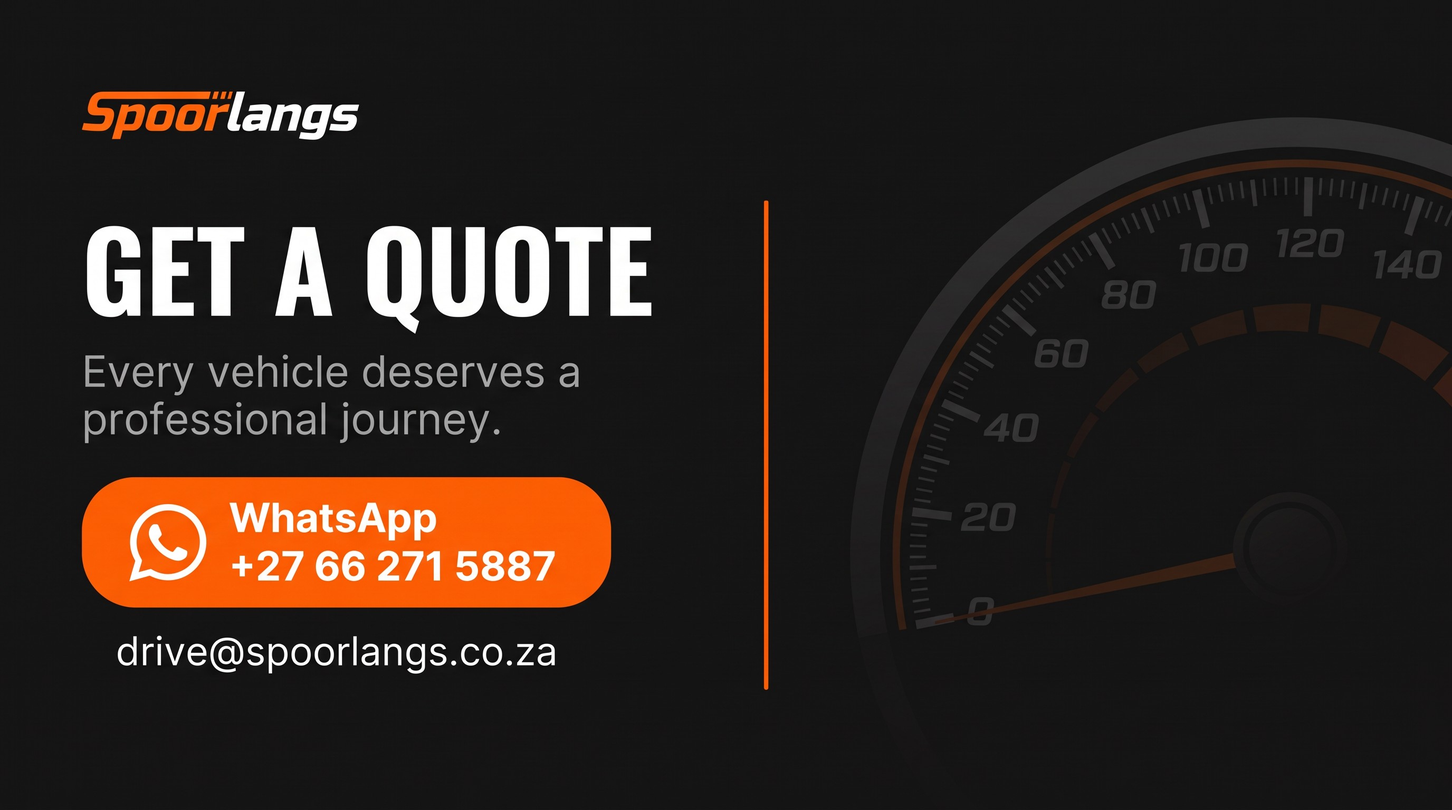
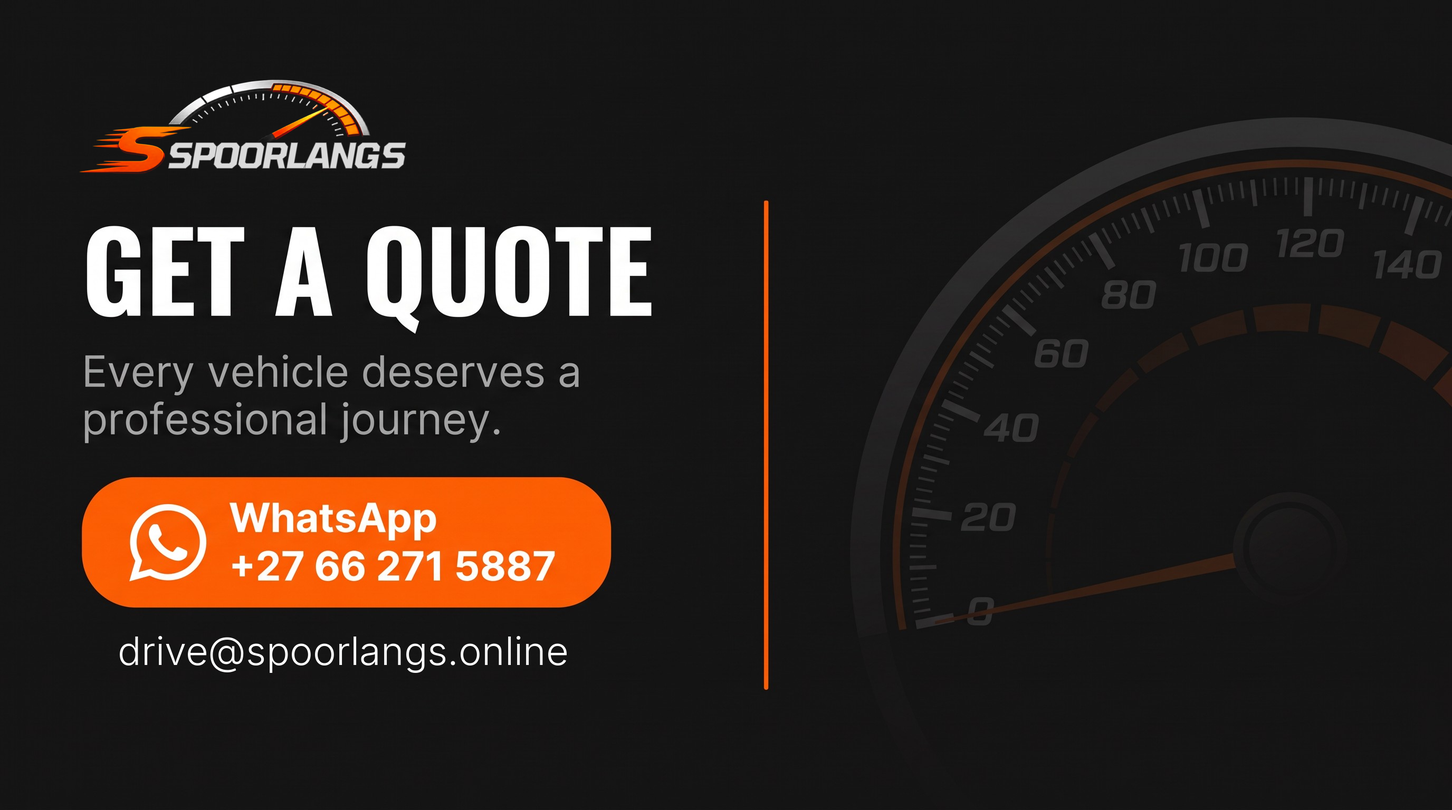
Re-export the Canva corrections and drop the old domain
Andries corrected the designs to spoorlangs.online in Canva. Re-exported
the 15 Templates and compared pixels: 13 changed (edge-to-edge and the
Instagram post are identical), so those 13 are replaced and wave1-01 is
renamed wave1-01-now-live to match its new Canva title. The live site's
contact-cta image and Facebook cover were updated too and are replaced.

Every corrected piece now prints drive@spoorlangs.online and
spoorlangs.online. The Templates README records what the corrections
fixed and what is still open; no file or note in the system names the
old domain any more. The ContactBand preview points at the new
contact-cta upload.

diff --git a/project/components/ContactBand/preview.html b/project/components/ContactBand/preview.html
@@ -15,7 +15,7 @@
 <script>
   var S = window.Spoorlangs, h = React.createElement;
   var WA_HREF = 'https://wa.me/27662715887?text=Hi%20Spoorlangs%20%E2%80%94%20quote%20request'; /* the site's prefilled wa.me link */
-  var IMAGE = '/_blob/f2696ac4c8443cbb6aaf7d0fbdc5947b'; /* assets/Imagery/contact-cta.png (2752×1536) */
+  var IMAGE = '/_blob/29632c489d9de9b3e035b868a4b1c6a1'; /* assets/Imagery/contact-cta.png (2752×1536) */
   function state(label, node) {
     return h('section', null, h('p', { className: 'ds-state-label' }, label), node);
   }

diff --git a/project/assets/Templates/README.md b/project/assets/Templates/README.md
@@ -1,70 +1,69 @@
 # Templates — launch set and WhatsApp kit
 
-Fifteen PNGs exported 2026-10-08 from the brand's own Canva designs (folders "Launch Editable Extra" and "WA Extra"): edit in Canva, re-export at the same size, replace the file. Brand Book p27 lists "Website · WhatsApp kit · rate card · Email signature · Letterhead A4 · A5 leave-behind · Business card · Runner ID · Vehicle branding (target) · Workwear polo" as in use and "social master in Canva" as NOT BUILT YET — the squares are not that master. Its rule: "All templates follow this book: asphalt + ignition, real approved logos, Kempton Park city only, no fake stats." No file passes as exported. Colours were sampled with a Node PNG decoder.
+Fifteen PNGs from the brand's own Canva designs (folders "Launch Editable Extra" and "WA Extra"): edit in Canva, re-export at the same size, replace the file. First exported 2026-10-08; on 2026-10-09 Andries Liebenberg corrected the designs in Canva and thirteen were re-exported — `edge-to-edge-delivery.png` and `instagram-launch-post.png` came back pixel-identical and are unchanged. Brand Book p27 lists "Website · WhatsApp kit · rate card · Email signature · Letterhead A4 · A5 leave-behind · Business card · Runner ID · Vehicle branding (target) · Workwear polo" as in use and "social master in Canva" as NOT BUILT YET — the squares are not that master. Its rule: "All templates follow this book: asphalt + ignition, real approved logos, Kempton Park city only, no fake stats." No file passes as exported yet. Colours were sampled from the PNGs with Pillow.
+
+**Contact line (p25).** Every corrected piece prints `drive@spoorlangs.online` and the web address `spoorlangs.online`; no stored file prints any other domain or email address. Pieces that still carry an old address are not stored here.
 
 ## The post anatomy
 
 The four 1080 × 1080 squares share one pattern:
 
-1. **Ground** — `asphalt-black`, ≈38 px left margin; all four carry a dim radial orange glow (#261000–#462100), off palette (open, p13/p18). Each hides a stray ≈113 × 45 px noise block top-left; delete it.
-2. **Logo** — `main-full-dark.png` top-left, ≈355–410 px wide at y ≈100–330, on flat #000000 — behind a glow its ground shows as a ≈408 × 229 px box (p12). One wordmark-S height (≈30 px) clear (p11).
+1. **Ground** — `asphalt-black`, ≈38 px left margin; all four carry a dim radial orange glow (#261000–#462100), off palette (open, p13/p18). The stray noise block top-left is gone (2026-10-09).
+2. **Logo** — the Main Full lockup top-left, ≈385–425 px wide at y ≈102–222; its black ground no longer shows as a box. ≈58–65 px clear above the kicker (p11 asks one wordmark-S height, ≈30 px). On `social-trust-format` and `social-service-cta` the glow still runs behind part of the lockup (≈#371A00–#3C1D00; p13 "Don't add glows or shadows") — move the glow clear.
 3. **Eyebrow** — `brand-kicker`, `ignition-orange` semibold caps ≈28 px (p17 "tracked caps"; untracked here); "TRUST FORMAT" and "SERVICE CTA" are design names, not copy — delete.
 4. **Headline** — `brand-display` (Bebas Neue caps) ≈85–93 px (p17: Display 120–160 px slides; Heading 1 72 px), two lines: `white`, then `ignition-orange`; no p22 ignition rule (`ignition-rule-width` × `ignition-rule-height`) — open.
 5. **Lead** — `brand-lead`, sentence case, `titanium-silver` ≈30 px.
 6. **Content block** — left-rule cards (1008 × ≈104 px, #101010 fill, 8 px orange bar), outlined chips (≈44 px pills, steel hairline), step boxes (≈205 × 73 px, orange outline, "1 Pin" / "2 Drive" / "3 POD") or a quote card; Service CTA adds a 505 × 72 px orange button. Per p22: `radius-card`, 1–2 px `hairline` in `steel-grey`/`titanium-silver`, `radius-rule` bars, `step-16` gaps, `radius-pill` buttons; unfilled cards follow the book's own page layout (not a stated rule).
-7. **Footer band** — full-width 3–5 px `ignition-orange` rule at y ≈990 (book has no social spec — p27; recommended: 5 px `ignition-rule-height`; `accent-4` is the site's 4 px border-left token, not a book value) over a #080808 band (use `asphalt-black`): "Driven By People. Further Together." in `titanium-silver` and "WhatsApp +27 66 271 5887" in `white` bold, ending 5–9 px from the edge — lift it.
+7. **Footer band** — full-width 3–5 px `ignition-orange` rule at y ≈990 (book has no social spec — p27; recommended: 5 px `ignition-rule-height`; `accent-4` is the site's 4 px border-left token, not a book value) over a #080808 band (use `asphalt-black`): "Driven By People. Further Together." in `titanium-silver` and "WhatsApp +27 66 271 5887 · drive@spoorlangs.online · spoorlangs.online" in `white` bold, ending 5 px from the edge — lift it.
 
-**Story** (`story-quote.png`, 1080 × 1920): `main-full-dark.png` top-centre ≈632 px wide; an orange opening-quote glyph; two centred `brand-display` lines (white); an orange rule; "SOUTH AFRICA KEEPS MOVING" tracked caps; a hairline facts chip; an orange CTA (make it a pill); email; a typeset "SPOORLANGS" sign-off (use `wordmark-only.png`). The quote slot takes the brand's own lines; no testimonials, ratings or stats without written permission (p28) — none on file; no fake stats (p27).
+**Story** (`story-quote.png`, 1080 × 1920): the Main Full lockup top-centre ≈627 px wide, no longer boxed (the glow touches its right end); an orange opening-quote glyph; two centred `brand-display` lines (white); an orange rule; "SOUTH AFRICA KEEPS MOVING" tracked caps; a hairline facts chip; an orange CTA (make it a pill); "drive@spoorlangs.online · spoorlangs.online"; a typeset "SPOORLANGS" sign-off over "Premium driver-powered vehicle delivery" (use `wordmark-only.png`); three short grey speed lines top-left (stray — delete). The quote slot takes the brand's own lines; no testimonials, ratings or stats without written permission (p28) — none on file; no fake stats (p27).
 
-**WhatsApp kit.** QR card (`wa-qr-status-story.png`, 1080 × 1920): typed "SPOORLANGS" masthead (drop, p13) over the kicker "STATUS / STORY"; `main-full-dark.png` ≈329 px wide; "SCAN TO WHATSAPP" ≈68 px white over the tagline; a centred ≈604 px QR card encoding https://wa.me/27662715887; phone, email, a pill chip; a full-width orange CTA "GET A QUOTE ON WHATSAPP" (make it a pill); footer "Launch · visual_gate=final" (delete). Rate table (`wa-rate-card-square.png`, 1080 × 1080): 10 px orange top band; `main-full-dark.png` centred 177 px; "GUIDE RATES · EXCL. VAT" ≈47 px white; a table card (1 px #262a30 hairline; "ZONE" and the Standard prices orange; figures as p24); two orange-outlined chips, two captions, a ≈340 px void. Footer strip: 4–5 px orange rule over a #08090b bar — white tile with `single-colour-flame-s.png`, "WhatsApp  +27 66 271 5887" white bold, "drive@spoorlangs.co.za" titanium, "Nico · Owner" orange right.
+**WhatsApp kit.** QR card (`wa-qr-status-story.png`, 1080 × 1920): typed "SPOORLANGS" masthead (drop, p13) over the kicker "STATUS / STORY"; the Main Full lockup ≈522 px wide; "SCAN TO WHATSAPP" ≈68 px white over the tagline; a centred ≈604 px QR card encoding https://wa.me/27662715887; phone, "drive@spoorlangs.online · spoorlangs.online", a pill chip; a full-width orange CTA "GET A QUOTE ON WHATSAPP" (make it a pill). The "visual_gate" footer label is gone. Rate table (`wa-rate-card-square.png`, 1080 × 1080): no top band now; the Main Full lockup centred ≈384 px over "Driven By People. Further Together." and "SOUTH AFRICA KEEPS MOVING"; "GUIDE RATES · EXCL. VAT" ≈47 px white; a table card (1 px #262a30 hairline; "ZONE" and the Standard prices orange; figures as p24); two orange-outlined chips, two captions, a ≈340 px void. Footer strip: 4–5 px orange rule over a #08090b bar — the flame-S (its white tile is gone), "WhatsApp  +27 66 271 5887" white bold, "drive@spoorlangs.online · spoorlangs.online" titanium, "Nico · Owner" orange right.
 
-**Email signature** (`email-signature-launch.png`, 720 × 420 sheet "SPOORLANGS · EMAIL SIGNATURE · LAUNCH"): on #f5f5f7, a 641 × 161 px white card with a 1 px `titanium-silver` hairline: a 72 px tile (`icon-only.png` in a black rounded frame) · 16 px · a 4 × 105 px vertical `ignition-orange` rule · 16 px · five oblique lines: "Nico" (orange ≈19 px), "Owner · Spoorlangs · Johannesburg on-wheels" (`steel-grey`), "Driven By People. Further Together." (black), "SAME-DAY · AUCTION · AFTER-HOURS · FLEET · LIVE PIN · POD" (steel caps), "WhatsApp +27 66 271 5887" (orange) · "drive@spoorlangs.co.za" (black) — ≈11–15 px. Spec lines: "Paste block: signature.html · Icon: signature-icon-72.png (host or CID)", "Asphalt #000000 · Ignition #FF7A00 · WA +27 66 271 5887 · drive@spoorlangs.co.za", "No street NAP · no live website URL · Launch-approved (visual_gate=final)".
+**Email signature** (`email-signature-launch.png`, 720 × 420 sheet headed "SPOORLANGS · EMAIL SIGNATURE · LAUNCH" in Bebas caps on a black bar): on #f5f5f7, a 641 × 161 px white card with a 1 px `titanium-silver` hairline: the orange flame-S alone (no frame) · a 4 × 105 px vertical `ignition-orange` rule · six upright lines: "Nico" (orange ≈19 px), "Owner · Spoorlangs · Johannesburg on-wheels" (`steel-grey`), "Driven By People. Further Together." (black bold), "SAME-DAY · AUCTION · AFTER-HOURS · FLEET · LIVE PIN · POD" (steel caps), "WhatsApp +27 66 271 5887" (orange) · "drive@spoorlangs.online" (black), "spoorlangs.online" (steel) — ≈11–15 px. Spec lines: "Paste block: signature.html · Icon: signature-icon-72.png (host or CID)", "Asphalt #000000 · Ignition #FF7A00 · WA +27 66 271 5887 · drive@spoorlangs.online", "Web https://spoorlangs.online".
 
 ## The 15 files
 
-| File | Canva design · edit | Format | What it is | Verdict | Fixes |
-|---|---|---|---|---|---|
-| `social-trust-format.png` | "Spoorlangs - Social template Trust" · [edit](https://www.canva.com/d/sp5ZQCTeIugIJGW) | 1080² | proof cards | fix-before-reuse | drop "TRUST FORMAT"; glow off logo; lift footer |
-| `social-service-cta.png` | "Spoorlangs - Social template Service CTA" · [edit](https://www.canva.com/d/o-blWfTnbOuu5k-) | 1080² | chips, button | fix-before-reuse | drop "SERVICE CTA"; pill CTA; "Get a quote on WhatsApp" |
-| `social-nico-factor.png` | "Spoorlangs - Social template Nico factor" · [edit](https://www.canva.com/d/OjDN4CiIcYDj_j8) | 1080² | quote, avatar ring | fix-before-reuse | crop `icon-only.png`'s white ground; ring clear |
-| `social-behind-the-wheel.png` | "Spoorlangs - Social template Behind the wheel" · [edit](https://www.canva.com/d/yIWi9MDhUUrZUTi) | 1080² | three-step process | fix-before-reuse | delete ten stray rules; kicker ≥30 px clear of the lockup (now 17 px) |
-| `wave1-01-coming-soon.png` | "Spoorlangs - Wave1 post 01 Coming soon" · [edit](https://www.canva.com/d/06bXjk5Tm9O269i) | 2048² | "SOMETHING BIG" teaser | do-not-reuse | AI lockup; amber; racing render |
-| `wave1-02-milestone.png` | "Spoorlangs - Wave1 post 02 Milestone" · [edit](https://www.canva.com/d/rRgaVnVqY-addn-) | 2048² | "8+ YEARS. ONE MISSION." | do-not-reuse | AI wordmark; navy render; attribute "8+" |
-| `wave1-03-contact.png` | "Spoorlangs - Wave1 post 03 Contact" · [edit](https://www.canva.com/d/CMvGFl0zrHh3L1p) | 2048² | contact card | do-not-reuse | AI lockup; amber footer; p25 block |
-| `wave1-05-fleet.png` | "Spoorlangs - Wave1 post 05 Fleet" · [edit](https://www.canva.com/d/tw_F8gGoAUVPBv8) | 2048² | "FLEET COLLECTIONS" | do-not-reuse | AI lockup reads "POORLANGS"; panel van |
-| `delivery-post-live-delivery.png` | "Spoorlangs - Delivery post" · [edit](https://www.canva.com/d/K7vwQXws4Htk4H7) | 2048² | "SAME-DAY. / ON WHEELS." | fix-before-reuse | replace band (drift marks); Bebas headline; pill CTA |
-| `story-quote.png` | "Spoorlangs - Story quote" · [edit](https://www.canva.com/d/qYKpCQVWuYAb97k) | 1080×1920 | tagline pull-quote | fix-before-reuse | email → drive@spoorlangs.online; logo on flat black; stray lines; pill CTA |
-| `edge-to-edge-delivery.png` | "Spoorlangs Edge-to-Edge Delivery Image" · [edit](https://www.canva.com/d/KIUdWrz8e5nWZkc) | 1080×1350 | light-trail post | do-not-reuse | typed wordmark; #FE4D00; "RUNNERSRunners" |
-| `instagram-launch-post.png` | "Instagram Post - Spoorlangs Launch" · [edit](https://www.canva.com/d/BlZAFa5hOvulhld) | 1080×1350 | stars, handover cards | do-not-reuse | delete stars; approved lockup; clipped band |
-| `email-signature-launch.png` | "Spoorlangs - Email signature" · [edit](https://www.canva.com/d/TzAQC9O5Wicc_A5) | 720×420 | signature sheet | fix-before-reuse | email → drive@spoorlangs.online; orange on white 2.61:1 (p26); Horizontal lockup (p10); 16 px copy; p25 block |
-| `wa-qr-status-story.png` | "Spoorlangs - QR status story" · [edit](https://www.canva.com/d/ZTFAjkT3V8WWkrc) | 1080×1920 | QR to WhatsApp | fix-before-reuse | email → drive@spoorlangs.online; gate label; masthead; pill CTA |
-| `wa-rate-card-square.png` | "Spoorlangs - Rate card square" · [edit](https://www.canva.com/d/ZMY6J4iDqEokMYL) | 1080² | p24 rate table | fix-before-reuse | email → drive@spoorlangs.online; "Local (under 25 km)"; "agreed SLA"; logo ground |
+| File | Canva design · edit | Format | What it is | Verdict | Corrected 2026-10-09 | Still to fix |
+|---|---|---|---|---|---|---|
+| `social-trust-format.png` | "Spoorlangs - Social template Trust" · [edit](https://www.canva.com/d/sp5ZQCTeIugIJGW) | 1080² | proof cards | fix-before-reuse | email + web in footer; logo box and noise block gone | drop "TRUST FORMAT"; glow off the lockup; lift footer |
+| `social-service-cta.png` | "Spoorlangs - Social template Service CTA" · [edit](https://www.canva.com/d/o-blWfTnbOuu5k-) | 1080² | chips, button | fix-before-reuse | email + web in footer; logo box and noise block gone | drop "SERVICE CTA"; glow off the lockup; pill CTA; "Get a quote on WhatsApp"; lift footer |
+| `social-nico-factor.png` | "Spoorlangs - Social template Nico factor" · [edit](https://www.canva.com/d/OjDN4CiIcYDj_j8) | 1080² | quote, avatar ring | fix-before-reuse | email + web in footer; avatar now the flame-S on dark; noise block gone | lift footer |
+| `social-behind-the-wheel.png` | "Spoorlangs - Social template Behind the wheel" · [edit](https://www.canva.com/d/yIWi9MDhUUrZUTi) | 1080² | three-step process | fix-before-reuse | email + web in footer; ten stray rules deleted; kicker ≈58 px clear; noise block gone | lift footer |
+| `wave1-01-now-live.png` | "Spoorlangs - Wave1 post 01 Now live" · [edit](https://www.canva.com/d/06bXjk5Tm9O269i) | 2048² | "WE'RE ON THE ROAD." launch post | do-not-reuse | reworked from the "SOMETHING BIG" teaser; approved lockup; web + email line | racing speedometer render; amber lines (≈#F8B030); lockup on busy texture |
+| `wave1-02-milestone.png` | "Spoorlangs - Wave1 post 02 Milestone" · [edit](https://www.canva.com/d/rRgaVnVqY-addn-) | 2048² | "8+ YEARS. ONE MISSION." | do-not-reuse | approved lockup replaces the AI wordmark; web + email line | car-on-speedometer render; navy ground; amber line; attribute "8+"; lockup on the render |
+| `wave1-03-contact.png` | "Spoorlangs - Wave1 post 03 Contact" · [edit](https://www.canva.com/d/CMvGFl0zrHh3L1p) | 2048² | contact card | do-not-reuse | approved lockup replaces the AI lockup; card carries web + email | glowing-pin render; amber line; "Nico replies from 07:30" |
+| `wave1-05-fleet.png` | "Spoorlangs - Wave1 post 05 Fleet" · [edit](https://www.canva.com/d/tw_F8gGoAUVPBv8) | 2048² | "FLEET COLLECTIONS" | do-not-reuse | approved lockup replaces "POORLANGS"; web + email line | fleet render with a panel van (p19); lockup on texture |
+| `delivery-post-live-delivery.png` | "Spoorlangs - Delivery post" · [edit](https://www.canva.com/d/K7vwQXws4Htk4H7) | 2048² | "SAME-DAY. / ON WHEELS." | fix-before-reuse | web + email line under the CTA | replace band (drift marks); Bebas headline; pill CTA |
+| `story-quote.png` | "Spoorlangs - Story quote" · [edit](https://www.canva.com/d/qYKpCQVWuYAb97k) | 1080×1920 | tagline pull-quote | fix-before-reuse | email + web; logo box gone | glow off the lockup; delete stray speed lines; pill CTA |
+| `edge-to-edge-delivery.png` | "Spoorlangs Edge-to-Edge Delivery Image" · [edit](https://www.canva.com/d/KIUdWrz8e5nWZkc) | 1080×1350 | light-trail post | do-not-reuse | unchanged (no address printed) | typed wordmark; #FE4D00; "RUNNERSRunners" |
+| `instagram-launch-post.png` | "Instagram Post - Spoorlangs Launch" · [edit](https://www.canva.com/d/BlZAFa5hOvulhld) | 1080×1350 | stars, handover cards | do-not-reuse | unchanged (footer clipped; no address visible) | delete stars; approved lockup; clipped band |
+| `email-signature-launch.png` | "Spoorlangs - Email signature" · [edit](https://www.canva.com/d/TzAQC9O5Wicc_A5) | 720×420 | signature sheet | fix-before-reuse | email + web; gate label gone; upright type; Bebas sheet header | orange on white 2.61:1 (p26); Horizontal lockup (p10); 16 px copy |
+| `wa-qr-status-story.png` | "Spoorlangs - QR status story" · [edit](https://www.canva.com/d/ZTFAjkT3V8WWkrc) | 1080×1920 | QR to WhatsApp | fix-before-reuse | email + web; gate label gone; larger lockup | drop typed masthead; pill CTA |
+| `wa-rate-card-square.png` | "Spoorlangs - Rate card square" · [edit](https://www.canva.com/d/ZMY6J4iDqEokMYL) | 1080² | p24 rate table | fix-before-reuse | email + web; logo box gone; flame-S tile gone | "Local (under 25 km)"; "agreed SLA" |
 
 ## Do not reuse / fix first
 
-- **Not an approved logo** — p13 "never: redraw, retype or AI-generate the wordmark"; p27 "real approved logos". Wave-1 posts: chrome/neon renders — rounded bevelled letterforms, gauge numerals ("MAX", "km/h", duplicated "80"/"180"), a neon-tube S, "POORLANGS" on 03/05. `edge-to-edge`: the name typed in a geometric sans inside an orange plate. `instagram-launch-post`: a serif "Spoorlangs / Launch". `wa-qr-status-story`, `story-quote`: a typed "SPOORLANGS" in addition to the real lockup (a masthead 95 px above it on the QR story; a footer sign-off ≈1300 px below it on the story quote — recorded as unclear).
+- **Logo** — p13 "never: redraw, retype or AI-generate the wordmark"; p27 "real approved logos". Since 2026-10-09 the Wave-1 posts carry the approved lockup instead of the AI chrome/neon renders, but set on busy renders (p12 "on the darkest, calmest corner"; p13 "Don't place on busy texture"). Still not approved: `edge-to-edge` (the name typed in a geometric sans inside an orange plate), `instagram-launch-post` (a serif "Spoorlangs / Launch"), and a typed "SPOORLANGS" beside the real lockup on `wa-qr-status-story` (masthead) and `story-quote` (footer sign-off — recorded as unclear).
 - **Fake stats** — p27 "no fake stats"; p28 "testimonials: none on file": `instagram-launch-post` five stars; `wave1-02` "8+ YEARS." unattributed (p03).
-- **Imagery** — p19 DON'T "Racing as content, burnouts, track days", "Courier, trucking or car-transporter visuals"; brief "No stock or AI-generated images": `delivery-post`, `wave1-01/02/05`, `edge-to-edge` — concept until the real shoot.
-- **Palette and contrast** — p14/p15: amber on `wave1-01/02/03` (≈ superseded #E8A317), #FE4D00 on `edge-to-edge`, navy ground on `wave1-02`; p26 "White on Ignition 2.6:1 Fail — avoid": `email-signature`, `edge-to-edge` body on the trail.
-- **Contact domain** — settled 2026-10-08: spoorlangs.online for email and web. `email-signature-launch`, `story-quote`, `wa-qr-status-story` and `wa-rate-card-square` print "drive@spoorlangs.co.za"; change it to "drive@spoorlangs.online".
+- **Imagery** — p19 DON'T "Racing as content, burnouts, track days", "Courier, trucking or car-transporter visuals"; brief "No stock or AI-generated images": `delivery-post`, `wave1-01/02/03/05`, `edge-to-edge` — concept until the real shoot.
+- **Palette and contrast** — p14/p15: amber on `wave1-01/02/03` ("SOUTH AFRICA KEEPS MOVING" ≈#F8B030; "NOW DRIVING ACROSS GAUTENG" grades orange to amber — superseded #E8A317 family), #FE4D00 on `edge-to-edge`, navy ground on `wave1-02`; p26 "White on Ignition 2.6:1 Fail — avoid": `email-signature` (orange text on white), `edge-to-edge` body on the trail.
 - **Pricing copy** — p24: "Local (<25 km)" and "miss written SLA" for "Local (under 25 km)" and "miss the agreed SLA".
-- **Logo ground and clear space** — p11/p12: the file's black box on `social-trust`, `social-service-cta`, `story-quote`, `wa-rate-card`; `icon-only.png` uncropped on `social-nico-factor`; text or chrome inside the box on `social-trust`, `behind-the-wheel`, `service-cta`, `wave1-03/05`.
+- **Logo ground and clear space** — p11/p12: corrected 2026-10-09 — the black box is gone on `social-trust`, `social-service-cta`, `story-quote`, `wa-rate-card`; the `social-nico-factor` avatar is the flame-S on dark; the squares' lockups clear the kicker. Open: the glow behind the lockup on `social-trust`, `social-service-cta`, `story-quote`.
 
 ## Elsewhere in Canva
 
-Launch Editable Extra: "Spoorlangs - One-pager", "Spoorlangs - Email signature ARCHIVE 2page", "Spoorlangs Rates Table on Dark Textured Background", "SPOORLANGS: Minimalist Poster Design with Clarity", folders "Covers", "Print", "Pitch deck". WA Extra kit: Catalog after-hours / auction / fleet / live pin / POD / same-day; Highlight about / after-hours / auction / fleet / live pin / POD / quote / same-day; How we work square / story / strip; Job card square; POD overlay; Pre-collect square / story; QR share square; Rate card story; Status booked / delivered / en route / quote ready; Digital business card; "Your Story - Spoorlangs Cancel Reschedule / Delay / Incident Report", "Instagram Post of Spoorlangs Delay Notification", "Full-Bleed Spoorlangs Incident Report Post 2", "Spoorlangs Cancellation Process Layout". Covers Launch images: Avatar 1080, Cover Facebook 820x312, Cover LinkedIn 1584x396, Cover TikTok 1080x1920, Cover X 1500x500, IG Bio Banner 1080x566, WA Status Banner 1080x1920.
+Launch Editable Extra: "Spoorlangs - One-pager", "Spoorlangs - Email signature ARCHIVE 2page", "Spoorlangs Rates Table on Dark Textured Background", "SPOORLANGS: Minimalist Poster Design with Clarity". Its folders "Print", "Covers" and "Pitch deck", and the "WA Kits Launch Editable" folder, have their own groups: `assets/Print`, `assets/Covers`, `assets/Pitch deck`, `assets/WA Kits`. WA Extra kit: Catalog after-hours / auction / fleet / live pin / POD / same-day; Highlight about / after-hours / auction / fleet / live pin / POD / quote / same-day; How we work square / story / strip; Job card square; POD overlay; Pre-collect square / story; QR share square; Rate card story; Status booked / delivered / en route / quote ready; Digital business card; "Your Story - Spoorlangs Cancel Reschedule / Delay / Incident Report", "Instagram Post of Spoorlangs Delay Notification", "Full-Bleed Spoorlangs Incident Report Post 2", "Spoorlangs Cancellation Process Layout".
 
-No stored file: an HTML render of the WhatsApp rate card (same content as `wa-rate-card-square.png`, a tall card with three zone cards and a "WHAT YOU GET" list, rates written "R 950" with a space after R, footer "WhatsApp +27 66 271 5887 · drive@spoorlangs.co.za · Spoorlangs (Pty) Ltd · Johannesburg") and a plain dark tyre-texture story background. The September concept-kit renders on the owner's disk (AI chrome wordmark on a speedometer, "Johan Smit, Chief Operations Officer" placeholder, lorem ipsum, "Sales · Service · Parts · Tyres · Performance · Fleet Solutions" icons) are superseded — never reuse.
+No stored file: a plain dark tyre-texture story background. The September concept-kit renders on the owner's disk (AI chrome wordmark on a speedometer, "Johan Smit, Chief Operations Officer" placeholder, lorem ipsum, "Sales · Service · Parts · Tyres · Performance · Fleet Solutions" icons) are superseded — never reuse.
 
 ## Discrepancies for Andries Liebenberg
 
-1. **Email domain — settled 2026-10-08: spoorlangs.online.** Replace "drive@spoorlangs.co.za" with "drive@spoorlangs.online" on `email-signature-launch`, `story-quote`, `wa-qr-status-story`, `wa-rate-card-square` and the HTML rate card.
-2. **Rate format** — the HTML card writes "R 950"; p24 and the PNG write "R950" / "R1 350".
-3. **Button case** — the Service CTA button is sentence case; the kit's are caps ("GET A QUOTE ON WHATSAPP"); p08 microcopy is "Get a quote on WhatsApp".
-4. **Tagline case** — p08 says "title case with full stops" yet prints it in caps; five pieces set "DRIVEN BY PEOPLE. FURTHER TOGETHER."
-5. **Contact wording** — "Johannesburg on-wheels", "Gauteng day-one" against p25 "Johannesburg & Greater Gauteng, on wheels"; "Kempton Park" and "Spoorlangs (Pty) Ltd" on no piece.
-6. **Copy in neither source** — "photo POD", "Live collect pin".
-7. **Site line on wave1-03** — "Nico replies from 07:30": the live site's footer line (§9 row 6) against p25 "invented trading hours".
-8. **Glow fields and dark-UI tints** (#101010, #080808, #121212, #262a30) — record or replace with unfilled hairline cards.
-9. **Ignition rule on social** — does p22 "Ignition rule 96 × 5 px under headings" apply to social?
-10. **Logo version** — Icon Only in the signature (p10: Horizontal for email); Main Full on the square rate card (p10: Stacked for "Square spaces").
+1. **Button case** — the Service CTA button is sentence case; the kit's are caps ("GET A QUOTE ON WHATSAPP"); p08 microcopy is "Get a quote on WhatsApp".
+2. **Tagline case** — p08 says "title case with full stops" yet prints it in caps; `story-quote`, `delivery-post` and `wave1-01/02/05` set "DRIVEN BY PEOPLE. FURTHER TOGETHER."
+3. **Contact wording** — "Johannesburg on-wheels", "Gauteng day-one" against p25 "Johannesburg & Greater Gauteng, on wheels"; "Kempton Park" and "Spoorlangs (Pty) Ltd" on no piece.
+4. **Copy in neither source** — "photo POD", "Live collect pin".
+5. **Site line on wave1-03** — "Nico replies from 07:30": the live site's footer line (§9 row 6) against p25 "invented trading hours".
+6. **Glow fields and dark-UI tints** (#101010, #080808, #121212, #262a30) — record or replace with unfilled hairline cards.
+7. **Ignition rule on social** — does p22 "Ignition rule 96 × 5 px under headings" apply to social?
+8. **Logo version** — the flame-S in the signature (p10: Horizontal for email); Main Full on the square rate card (p10: Stacked for "Square spaces").

diff --git a/project/assets/Imagery/README.md b/project/assets/Imagery/README.md
@@ -11,7 +11,7 @@ Shoot brief ("Spoorlangs - Photo Shoot Brief", real shoot approved October 2026)
 - `how-it-works.png` — three dark rounded cards on asphalt texture, big orange numerals 1/2/3, white caps titles, solid orange icons (key, steering wheel, phone with tick), logo bottom-right; 2752×1536; black ground; home process `.process-visual`, alt "Collect, drive, then hand over with Proof of Delivery". Baked copy: "1 COLLECT — We collect your vehicle from any specified location." · "2 DRIVE — Our professional drivers safely transport your vehicle." · "3 HAND OVER + POD — Digital proof of delivery and handover is provided." — "any specified location" and "safely transport" are artwork wording, not site copy.
 - `why-choose-us.png` — four orange-outlined black tiles (2×2) on a dark wet-road photo with an orange glow, white line icons over white caps; 2752×1536; black ground; home why `.why-visual` (height `clamp(13rem, 24vh, 16rem)` ≥900px), alt "Professional Gauteng vehicle delivery with journey updates and Proof of Delivery". Baked copy: "PROFESSIONAL DRIVERS" · "SAME-DAY GAUTENG" · "LIVE TRACKING" · "PROOF OF DELIVERY" — "LIVE TRACKING" conflicts with the site's "Live pin", "Track on request".
 - `pod-moment.png` — the one daylight image: golden-hour suburban driveway, a black Mazda saloon on paving, a man in a black cap and black Spoorlangs polo in profile photographing with a phone (the phone screen shows a parcel on a doorstep, not the car); 2752×1536; photo, no text; home POD `.pod-layout figure` (height `clamp(8rem, 15vh, 10rem)` ≥900px), alt "Driver recording a vehicle handover for Proof of Delivery".
-- `contact-cta.png` — charcoal field, a large grey speedometer with orange needle at right, a capital-S italic mixed-case "Spoorlangs" wordmark top-left (a different mark from the approved logo), white caps headline, grey sub-line, orange WhatsApp pill, email line, orange vertical rule; 2752×1536; charcoal ground; home contact band `.contact-section > img` under the overlay, alt "Get a Spoorlangs vehicle delivery quote". Baked copy: "GET A QUOTE", "Every vehicle deserves a professional journey.", "WhatsApp +27 66 271 5887", "drive@spoorlangs.co.za" — the superseded domain (settled 2026-10-08: drive@spoorlangs.online); do not reuse the address or the italic wordmark.
+- `contact-cta.png` — charcoal field, a large grey speedometer with orange needle at right, the approved Main Full lockup top-left, white caps headline, grey sub-line, orange WhatsApp pill, email line, orange vertical rule; 2752×1536; charcoal ground; home contact band `.contact-section > img` under the overlay, alt "Get a Spoorlangs vehicle delivery quote". Baked copy: "GET A QUOTE", "Every vehicle deserves a professional journey.", "WhatsApp +27 66 271 5887", "drive@spoorlangs.online". Replaced on the live site by 2026-10-09 (same asset path); the earlier artwork carried an italic wordmark and an old address and is no longer stored.
 - `service-spotlight-1.png` — black-to-charcoal tile, speed-line "S" mark, orange slanted banner, white condensed caps headline, white clock and car line icons, grey copy, orange WhatsApp band; 2048×2048; black ground; /services Same-day (`loading="eager"`), alt "Same-day vehicle delivery by Spoorlangs". Baked: "SERVICE SPOTLIGHT", "SAME-DAY COLLECTION & DELIVERY", "Book before 10am. Delivered same day. Gauteng only. Runners only.", "WhatsApp +27 66 271 5887".
 - `service-spotlight-2.png` — same family; a flame-"S" with a capital-S italic mixed-case "Spoorlangs" wordmark top-left (not the approved logo), full-width orange banner, white gavel icon; 2048×2048; black ground; /services Auction, alt "Auction vehicle delivery by Spoorlangs". Baked: "AUCTION LIFT", "Won at auction? We'll collect it the same day. No trailer. No carrier. On its own wheels." — "the same day" is a claim the site does not make.
 - `service-spotlight-3.png` — charcoal tile, flame-"S", orange moon and sun icons flanking a three-line headline, orange band at the foot; 2048×2048; charcoal ground; /services After-hours, alt "After-hours vehicle delivery by Spoorlangs". Baked: "AFTER-HOURS & SUNDAY DELIVERY", "Need it moved outside business hours? We're available. Just WhatsApp us." — "We're available." conflicts with the site's "when a driver is available".

diff --git a/project/content.md b/project/content.md
@@ -89,7 +89,7 @@ Figures identical in both sources; labels differ (site column "After-hours / Sun
 
 ## Contact block and rules (p25 + site)
 
-"CONTACT BLOCK — COPY EXACTLY": Business "Spoorlangs (Pty) Ltd" · Owner "Nico Strydom" · Location "Kempton Park" · Coverage "Johannesburg & Greater Gauteng, on wheels" · WhatsApp "+27 66 271 5887" · Email "drive@spoorlangs.online" · Web "https://spoorlangs.online". Rules (p25, updated 2026-10-08): "Web is spoorlangs.online (https://spoorlangs.online). Locked by Andries 2026-10-08." · "Email is drive@spoorlangs.online. No other domain or email address is ever shown." The earlier spoorlangs.co.za email domain and spoorlangs.lovable.app web line are retired; never print them. Rules: "City only: Kempton Park. Never a street address — clients never visit us." · "Public owner name: Nico." Site extras: "Message any time · Nico replies from 07:30 · we confirm your window." (the site's own line; the book forbids "invented trading hours"); "We come to you — no walk-in office." (site: /contact).
+"CONTACT BLOCK — COPY EXACTLY": Business "Spoorlangs (Pty) Ltd" · Owner "Nico Strydom" · Location "Kempton Park" · Coverage "Johannesburg & Greater Gauteng, on wheels" · WhatsApp "+27 66 271 5887" · Email "drive@spoorlangs.online" · Web "https://spoorlangs.online". Rules (p25, updated 2026-10-08): "Web is spoorlangs.online (https://spoorlangs.online). Locked by Andries 2026-10-08." · "Email is drive@spoorlangs.online. No other domain or email address is ever shown." The earlier email domain and web line are retired; print no other domain or address. Rules: "City only: Kempton Park. Never a street address — clients never visit us." · "Public owner name: Nico." Site extras: "Message any time · Nico replies from 07:30 · we confirm your window." (the site's own line; the book forbids "invented trading hours"); "We come to you — no walk-in office." (site: /contact).
 
 NEVER PUBLISH (p25): "A street line or "123 Main Road" · +27 11 555 0101 · any other email address · invented trading hours · walk-in or workshop claims."
 

diff --git a/project/assets/Logos/README.md b/project/assets/Logos/README.md
@@ -17,4 +17,4 @@ The approved set: "Approved PNG set, 14 Sep 2026 (13 files, logos/approved-2026-
 - `whatsapp-avatar.png` — not in the approved set: the WhatsApp profile avatar v1 (6 Oct 2026), a circular crop of an illustrated cartoon driver in a black-and-orange cap and vest, dark road backdrop, full-colour lockup at the bottom; 1024×1024, white ground; inks orange + black + chrome; "a derived use of Icon Only" (asset map); used as the WhatsApp business profile. Flagged (README §9 row 23): p11 says avatars use Icon Only and p18 forbids cartoon cars. Do not reuse elsewhere.
 - `favicon.png` — the S + streaks + arc mark alone, orange and chrome on white; 64×64; site `<link rel="icon" sizes="64x64">`. A site derivative of Icon Only.
 - `apple-touch-icon.png` — the same mark on white; 180×180; site `<link rel="apple-touch-icon" sizes="180x180">`.
-- `cover-facebook-820x312-LAUNCH.png` — black field with an orange hairline along the top, full-colour lockup centre-left, a dot-matrix speedometer arc at right (white dots, orange arc of dots), "Driven By People. Further Together." in white below; 820×312; inks orange + white + chrome; not a Brand Book version; site `og:image` / `twitter:image` on eight of nine pages and the Facebook cover.
+- `cover-facebook-820x312-LAUNCH.png` — black field with an orange hairline along the top, full-colour lockup centre-left, a dot-matrix speedometer arc at right (white dots, orange arc of dots), "Driven By People. Further Together." in white below, then "spoorlangs.online · drive@spoorlangs.online" in grey (line added on the live site by 2026-10-09); 820×312; inks orange + white + chrome; not a Brand Book version; site `og:image` / `twitter:image` on eight of nine pages and the Facebook cover.

diff --git a/project/website.md b/project/website.md
@@ -78,4 +78,4 @@ Privacy notes: (quote) "This builds a WhatsApp message to Spoorlangs. Nothing is
 
 ## Contact facts the site publishes
 
-WhatsApp "+27 66 271 5887" (`https://wa.me/27662715887`); email "drive@spoorlangs.online"; "Kempton Park"; "Johannesburg / Greater Gauteng on-wheels"; "Message any time · Nico replies from 07:30 · we confirm your window."; "We come to you — no walk-in office."; areas "Johannesburg", "Sandton", "Midrand", "Centurion", "Pretoria", "Ekurhuleni", "Roodepoort & West Rand", "Vereeniging & Vanderbijlpark"; "© 2026 Spoorlangs (Pty) Ltd"; JSON-LD `AutomotiveBusiness` with `founder` "Nicholaas Strydom", `address` region "Gauteng" / "ZA" (no street), `availableLanguage` ["en", "af"]. `contact-cta.png` still carries "drive@spoorlangs.co.za" in the artwork — never reuse that address.
+WhatsApp "+27 66 271 5887" (`https://wa.me/27662715887`); email "drive@spoorlangs.online"; "Kempton Park"; "Johannesburg / Greater Gauteng on-wheels"; "Message any time · Nico replies from 07:30 · we confirm your window."; "We come to you — no walk-in office."; areas "Johannesburg", "Sandton", "Midrand", "Centurion", "Pretoria", "Ekurhuleni", "Roodepoort & West Rand", "Vereeniging & Vanderbijlpark"; "© 2026 Spoorlangs (Pty) Ltd"; JSON-LD `AutomotiveBusiness` with `founder` "Nicholaas Strydom", `address` region "Gauteng" / "ZA" (no street), `availableLanguage` ["en", "af"]. Since 2026-10-09 the site's `contact-cta.png` artwork also prints "drive@spoorlangs.online", and the `og:image` cover adds "spoorlangs.online · drive@spoorlangs.online"; no page or image prints any other address.
